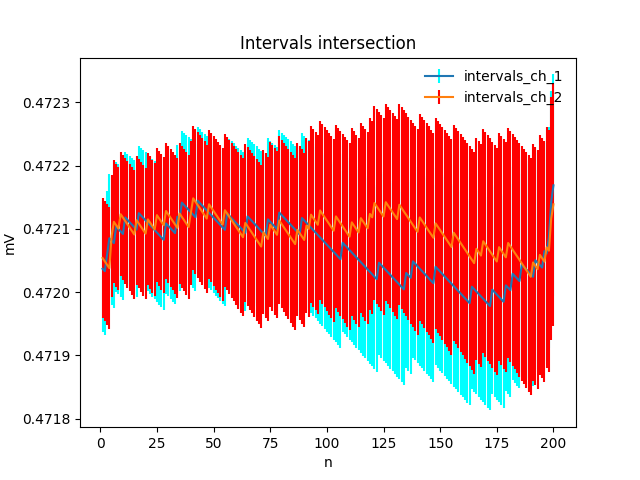
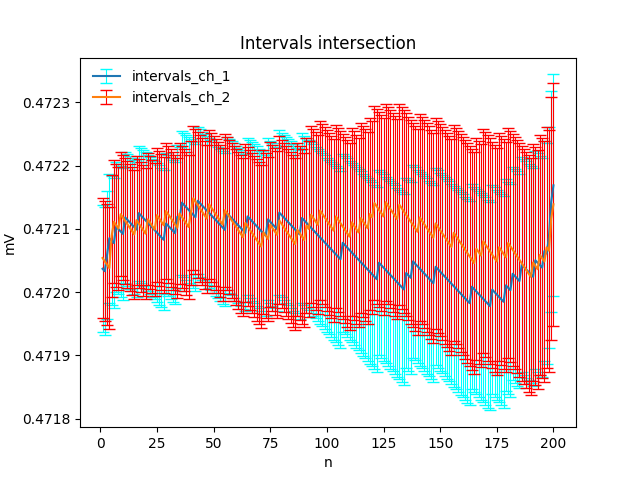
Added picture with interval regression

Changed region(s): [[0.1562, 0.125, 0.875, 0.875], [0.1562, 0.125, 0.375, 0.2188]]

diff --git a/main.py b/main.py
@@ -41,7 +41,7 @@ def get_out_coeff(data_list):
 def draw_intervals(data_list, need_save=True, save_path=''):
     x = np.arange(1, len(data_list[0]) + 1, 1, dtype=int)
     for num, data_l in enumerate(data_list, start=1):
-        plt.errorbar(x, data_l, yerr=10**(-4), marker='o', linestyle='none', ecolor='k', elinewidth=0.8, capsize=4,
+        plt.errorbar(x, data_l, yerr=10 ** (-4), marker='o', linestyle='none', ecolor='k', elinewidth=0.8, capsize=4,
                      capthick=1)
         plt.xlabel("n")
         plt.ylabel("mV")
@@ -74,7 +74,7 @@ def get_linear_regression(data_list, need_save=True, save_path=''):
 
 
 def get_w_histogram(data_list, lsm_p_list, need_save=True, save_path=''):
-    eps = 10**(-4)
+    eps = 10 ** (-4)
     w_list_arr = []
     for num, data_l in enumerate(data_list, start=1):
         w_list = []
@@ -105,7 +105,7 @@ def get_w_histogram(data_list, lsm_p_list, need_save=True, save_path=''):
 def get_linear(data_list, w_list, lsm_p_list, need_save=True, save_path=''):
     data_len = len(data_list[0])
     x = np.arange(1, data_len + 1, 1, dtype=int)
-    eps = 10**(-4)
+    eps = 10 ** (-4)
     yerr = [eps] * data_len
     linear_data = []
     for num, data_l in enumerate(data_list, start=0):
@@ -139,13 +139,15 @@ def multi_jaccard_metric(interval_list):
 
 def get_inner_r(data_list, w_list, R_out, need_save=True, save_path=''):
     step_count = 1000
-    eps = 10**(-4)
+    eps = 10 ** (-4)
     r_step = (R_out[1] - R_out[0]) / step_count
     start = R_out[0]
     jaccar_list = []
     while start <= R_out[1]:
-        data_l = [[data_item - eps * w_list[0][num], data_item + eps * w_list[0][num]] for num, data_item in enumerate(list(data_list[0]))]
-        data_l += [[start * (data_item - eps * w_list[1][num]), start * (data_item + eps * w_list[1][num])] for num, data_item in enumerate(list(data_list[1]))]
+        data_l = [[data_item - eps * w_list[0][num], data_item + eps * w_list[0][num]] for num, data_item in
+                  enumerate(list(data_list[0]))]
+        data_l += [[start * (data_item - eps * w_list[1][num]), start * (data_item + eps * w_list[1][num])] for
+                   num, data_item in enumerate(list(data_list[1]))]
         jaccar_list.append((start, multi_jaccard_metric(data_l)))
         start += r_step
     plt.plot([R[0] for R in jaccar_list], [R[1] for R in jaccar_list], label='Jaccard metric by R')
@@ -171,16 +173,18 @@ def get_inner_r(data_list, w_list, R_out, need_save=True, save_path=''):
 def draw_all_intervals(data_list, w_list, optimal_m, need_save=True, save_path=''):
     data_len = (len(data_list[0]))
     x = np.arange(1, data_len + 1, 1, dtype=int)
-    eps = 10**(-4)
+    eps = 10 ** (-4)
     yerr = [eps] * data_len
     for i in range(data_len):
         yerr[i] *= w_list[0][i]
-    plt.errorbar(x, data_list[0], yerr=yerr, ecolor='cyan', label='intervals_ch_1')
+    plt.errorbar(x, data_list[0], yerr=yerr, ecolor='cyan', label='intervals_ch_1', elinewidth=0.8, capsize=4,
+                 capthick=1)
     yerr = [eps] * data_len
     for i in range(data_len):
         yerr[i] *= (w_list[1][i] * optimal_m)
         data_list[1][i] *= optimal_m
-    plt.errorbar(x, data_list[1], yerr=yerr, ecolor='red', label='intervals_ch_2')
+    plt.errorbar(x, data_list[1], yerr=yerr, ecolor='red', label='intervals_ch_2', elinewidth=0.8, capsize=4,
+                 capthick=1)
     plt.legend(frameon=False)
     plt.title(f'Intervals intersection')
     plt.xlabel("n")
@@ -211,21 +215,4 @@ def main(data_postfix_):
 
 if __name__ == "__main__":
     data_postfix = '800nm_0.23mm.csv'
-    # have_opt_list = []
-    # for filename in os.listdir('./data/ch_1'):
-    #     data_postfix = filename[8:]
-    #     print(data_postfix)
-    #     try:
-    #
-    #     except:
-    #         continue
-    #     print('_____________________________________________')
-    # print(have_opt_list)
-    #main(data_postfix)
-    data = read_data([f'./data/ch_1/Канал 1_{data_postfix}', f'./data/ch_2/Канал 2_{data_postfix}'])
-    x = np.arange(1, 201, 1, dtype=int).tolist()
-    for num, data_l in enumerate(data):
-        with open(f'data_{num}.mat', 'w') as file:
-            for num_, y_ in enumerate(data_l):
-                print(f'{x[num_]} {y_}')
-                file.write(f'{x[num_]} {y_}\n')
+    main(data_postfix)

diff --git a/main_intervals.py b/main_intervals.py
@@ -70,10 +70,12 @@ def draw_all_intervals(intervals, optimal_m, need_save=True, save_path=''):
     x = np.arange(1, data_len + 1, 1, dtype=int)
     y_err = [(interval[1] - interval[0]) / 2 for interval in intervals[0]]
     y = [interval[1] - y_err[num] for num, interval in enumerate(intervals[0])]
-    plt.errorbar(x, y, yerr=y_err, ecolor='cyan', label='intervals_ch_1')
+    plt.errorbar(x, y, yerr=y_err, ecolor='cyan', label='intervals_ch_1', elinewidth=0.8, capsize=4,
+                 capthick=1)
     y_err = [optimal_m * (interval[1] - interval[0]) / 2 for interval in intervals[1]]
     y = [optimal_m * interval[1] - y_err[num] for num, interval in enumerate(intervals[1])]
-    plt.errorbar(x, y, yerr=y_err, ecolor='red', label='intervals_ch_2')
+    plt.errorbar(x, y, yerr=y_err, ecolor='red', label='intervals_ch_2', elinewidth=0.8, capsize=4,
+                 capthick=1)
     plt.legend(frameon=False)
     plt.title(f'Intervals intersection')
     plt.xlabel("n")
@@ -83,13 +85,45 @@ def draw_all_intervals(intervals, optimal_m, need_save=True, save_path=''):
     plt.show()
 
 
+def get_regression_intervals(params, len_of_intervals=200):
+    x = np.arange(1, len_of_intervals + 1, 1, dtype=int)
+    intervals = []
+    for x_ in x:
+        intervals.append([params[0][0] * x_ + params[1][0], params[0][1] * x_ + params[1][1]])
+    return intervals
+
+
+def draw_interval_regression(intervals, params, need_save=True, save_path=''):
+    data_len = (len(intervals[0]))
+    x = np.arange(1, data_len + 1, 1, dtype=int)
+    for num, data_l in enumerate(intervals, start=0):
+        y_err = [(interval[1] - interval[0]) / 2 for interval in intervals[num]]
+        y = [interval[1] - y_err[num] for num, interval in enumerate(intervals[num])]
+        plt.errorbar(x, y, yerr=y_err, ecolor='cyan', label=f'intervals_ch_{num + 1}', elinewidth=0.8, capsize=4,
+                     capthick=1)
+        reg_intervals = get_regression_intervals(params=params[num])
+        y_err = [(interval[1] - interval[0]) / 2 for interval in reg_intervals]
+        y = [interval[1] - y_err[num] for num, interval in enumerate(reg_intervals)]
+        plt.errorbar(x, y, yerr=y_err, ecolor='red', label='interval regression', elinewidth=0.8, capsize=4,
+                     capthick=1)
+        plt.legend(frameon=False)
+        plt.title(f'Chanel_{num + 1} interval regression')
+        plt.xlabel("n")
+        plt.ylabel("mV")
+        if need_save:
+            plt.savefig(f'{save_path}/regression_intervals_ch_{num + 1}.png')
+        plt.show()
+
+
 if __name__ == "__main__":
     data_postfix = '800nm_0.23mm.csv'
-    interval_data = read_data_with_intervals([f'./data/ch_1/Канал 1_{data_postfix}', f'./data/ch_2/Канал 2_{data_postfix}'])
+    interval_data = read_data_with_intervals(
+        [f'./data/ch_1/Канал 1_{data_postfix}', f'./data/ch_2/Канал 2_{data_postfix}'])
     save_p = f'./pictures/intervals'
     intervals_regression_drift_params = [[3.4551e-06, 4.2070e-06], [5.1628e-06, 6.2094e-06]]
+    intervals_regression_params = [([3.4551e-06, 4.2070e-06], [4.7202e-01, 4.7214e-01]), ([5.1628e-06, 6.2094e-06],
+                                                                                          [5.0301e-01, 5.0312e-01])]
+    draw_interval_regression(interval_data, intervals_regression_params, True, save_path=save_p)
     intervals_w_o_drift = dif_drift_component(interval_data, intervals_regression_drift_params)
     opt_m = get_inner_r(intervals_w_o_drift, [0.9377, 0.9385], True, save_path=save_p)
     draw_all_intervals(intervals_w_o_drift, opt_m[0], True, save_path=save_p)
-
-
